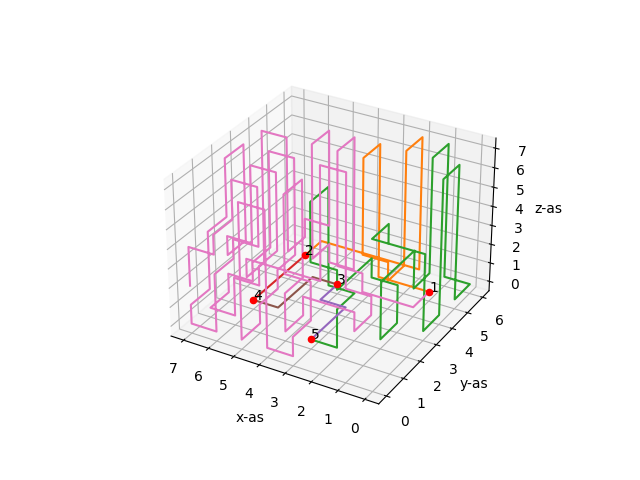
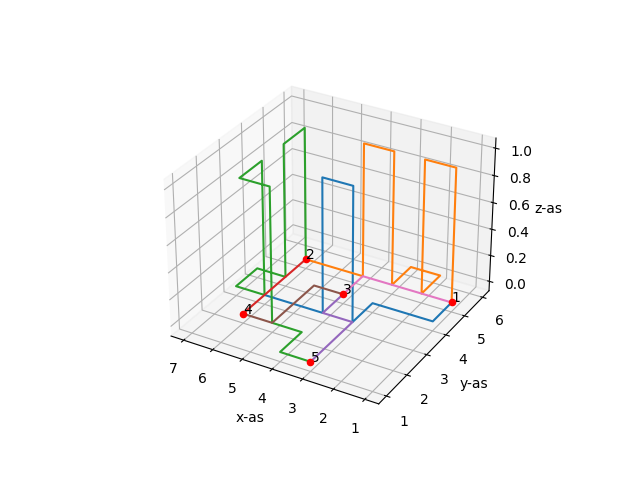
Markdown

diff --git a/code/algorithms/steered_random.py b/code/algorithms/steered_random.py
@@ -51,8 +51,8 @@ class steered_random_routes:
                 return False
 
         # if the crossing will become an intersection, try to avoid it
-        if (to_be_added_crossing.initial_amount_of_directions - len(to_be_added_crossing.directions)) > 1:
-            return False
+        # if (to_be_added_crossing.initial_amount_of_directions - len(to_be_added_crossing.directions)) > 1:
+        #     return False
 
         return True
 
@@ -90,7 +90,7 @@ class steered_random_routes:
                     # if net is stuck, delete net and break
                     if not possible_directions:
                         print(f"{net} failed")
-                        self.grid.delete_net(net, -1)
+                        # self.grid.delete_net(net, -1)
                         succes = False
                         break
                 
@@ -117,7 +117,7 @@ class steered_random_routes:
                             # if none of the directions are possible, register net as failure
                             if found_direction == False:
                                 print(f"{net} failed")
-                                self.grid.delete_net(net, -1)
+                                # self.grid.delete_net(net, -1)
                                 succes = False
                                 break
 

diff --git a/docs/ANALYSE.md b/docs/ANALYSE.md
@@ -42,8 +42,16 @@ Een voorbeeld van een oplossing die hij dan voor de eerste netlist genereert sta
 ![example 2 steered random algoritm](./images/steered_random2_chip_0_net_1.png "Example image")
 
 Netlist 2 implementeren, lukt echter vaak al niet.
-Zo ziet een gefaalde 'oplossing' er bijvoorbeeld uit, als je het algoritme maar een poging geeft per net:
+Een goede oplossing:
 
 ![example 3 steered random algoritm](./images/steered_random3_chip_0_net_2.png "Example image")
+
+Zo ziet een gefaalde 'oplossing' er bijvoorbeeld uit, als je het algoritme maar een poging geeft per net:
+Als je kruispunten 'aan' zet
+
 ![example 4 steered random algoritm](./images/steered_random4_chip_0_net_2.png "Example image")
+
+Of als je kruispunten uit zet
+
+![example 5 steered random algoritm](./images/steered_random5_chip_0_net_2.png "Example image")
 
